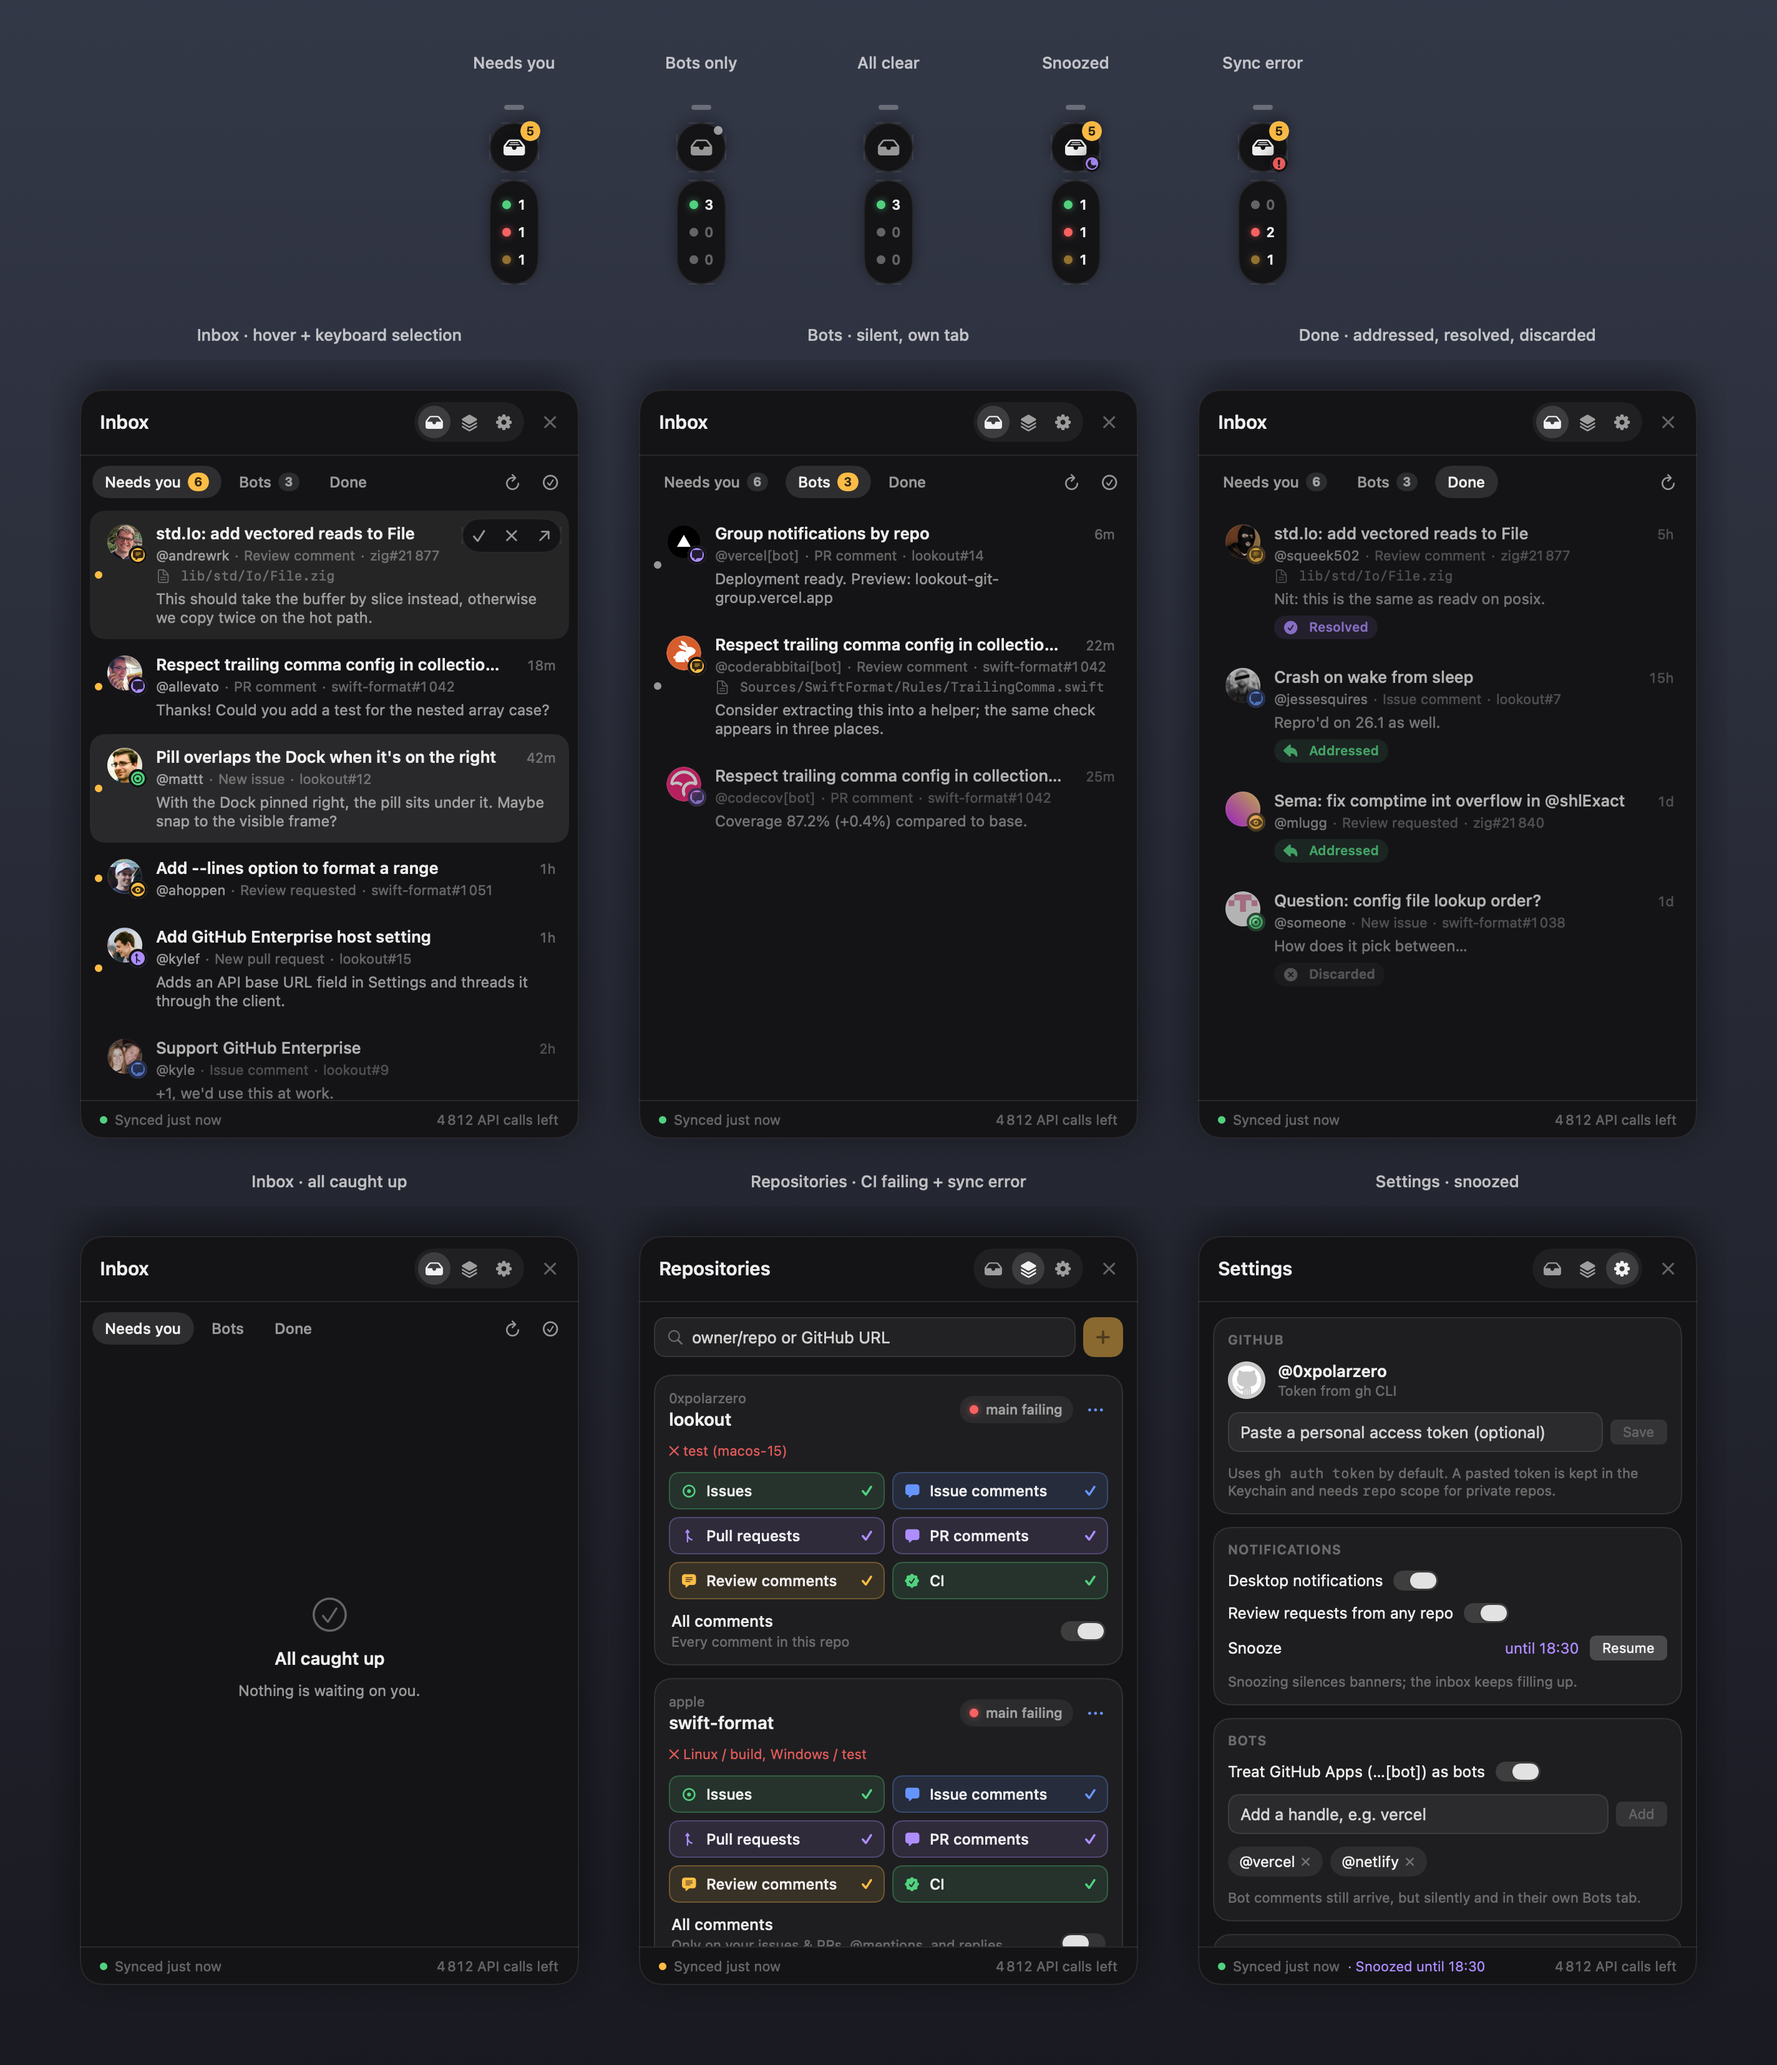
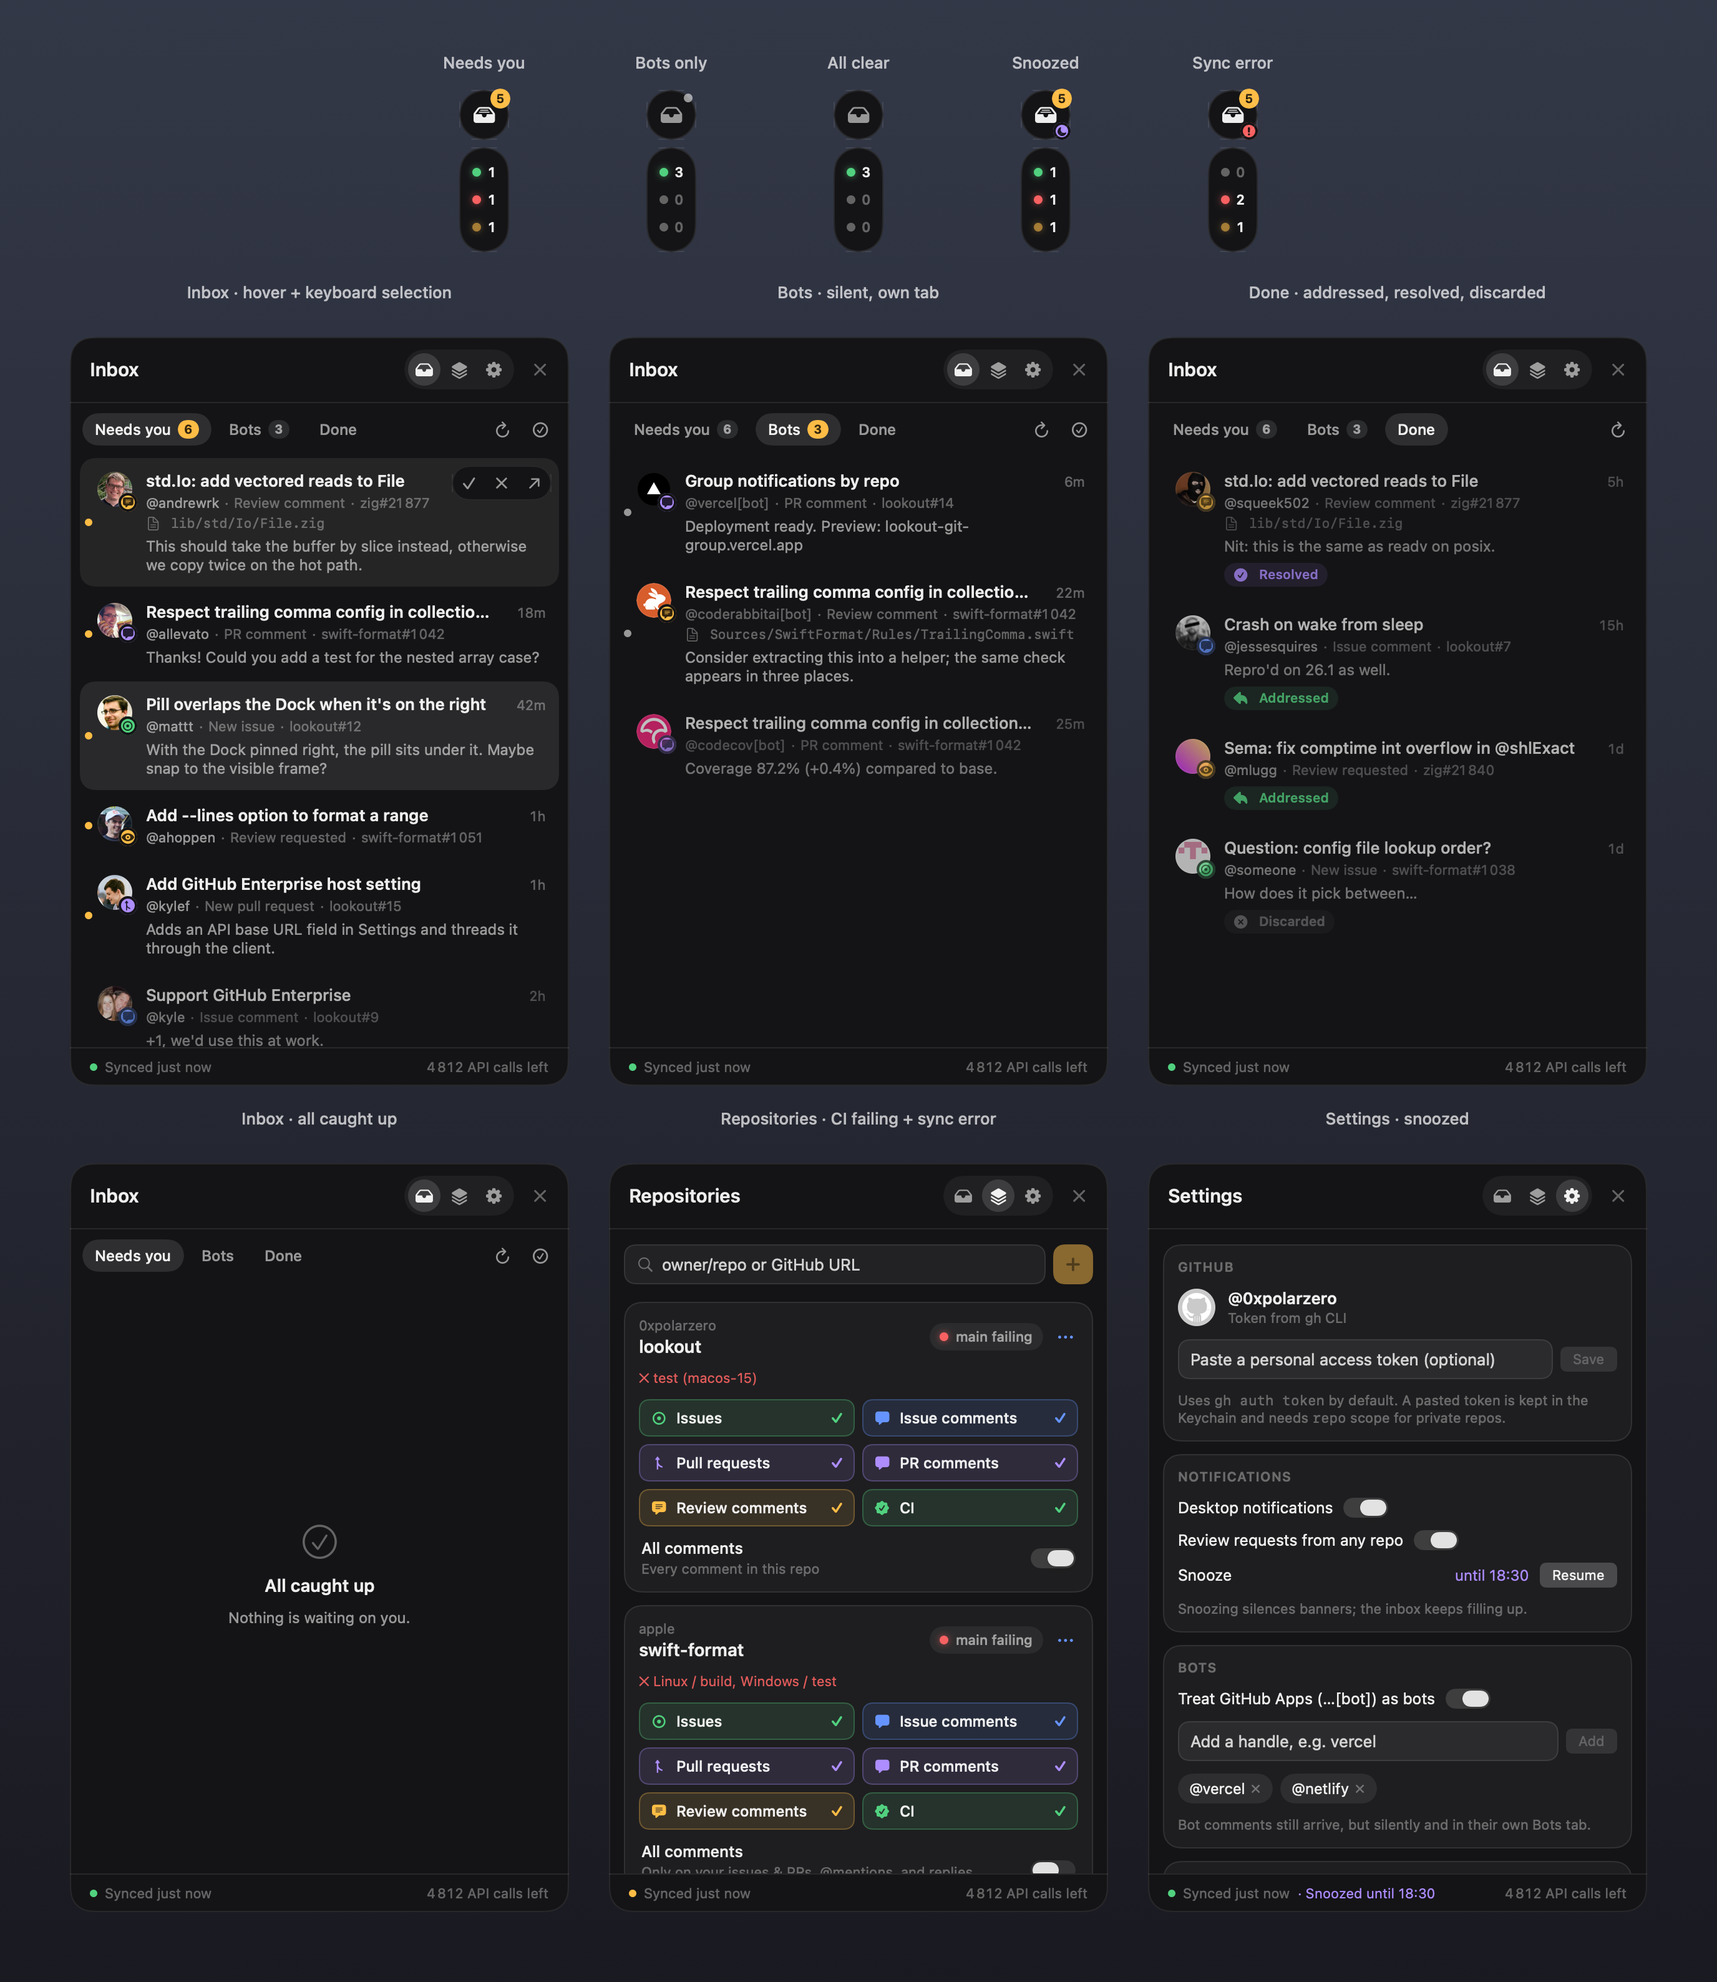
feat: Drag the pill from anywhere; drop clipped shadows (native shadow on the panel)

diff --git a/Sources/Lookout/Windows.swift b/Sources/Lookout/Windows.swift
@@ -17,7 +17,7 @@ final class UIState {
     }
 }
 
-final class FloatingPanel: NSPanel {
+class FloatingPanel: NSPanel {
     var allowsKey = false
     var onCancel: (() -> Void)?
 
@@ -60,15 +60,54 @@ final class SizingHostingView<Content: View>: NSHostingView<Content> {
 
 struct PillActions {
     let toggle: (PanelTab) -> Void
-    let dragChanged: () -> Void
-    let dragEnded: () -> Void
+}
+
+/// The whole pill is draggable. A mouse-down is held back until we know whether it's a click (forwarded to
+/// SwiftUI on mouse-up) or a drag (moves the window; SwiftUI never sees it, so no button fires).
+final class PillPanel: FloatingPanel {
+    var onDragChanged: ((NSPoint) -> Void)?
+    var onDragEnded: ((NSPoint) -> Void)?
+    private var pendingDown: NSEvent?
+    private var downAt: NSPoint = .zero
+    private var dragging = false
+
+    override func sendEvent(_ event: NSEvent) {
+        // Screen coordinates from the event itself (stable even though the window moves under the cursor).
+        let p = convertPoint(toScreen: event.locationInWindow)
+        switch event.type {
+        case .leftMouseDown:
+            pendingDown = event
+            downAt = p
+            dragging = false
+        case .leftMouseDragged where pendingDown != nil || dragging:
+            if !dragging, hypot(p.x - downAt.x, p.y - downAt.y) > 3 {
+                dragging = true
+                NSCursor.closedHand.push()
+                onDragChanged?(downAt)
+            }
+            if dragging { onDragChanged?(p) }
+        case .leftMouseUp where dragging:
+            dragging = false
+            pendingDown = nil
+            NSCursor.pop()
+            onDragEnded?(p)
+        case .leftMouseUp:
+            if let down = pendingDown {
+                pendingDown = nil
+                super.sendEvent(down)
+            }
+            super.sendEvent(event)
+        default:
+            super.sendEvent(event)
+        }
+    }
 }
 
 @MainActor
 final class UIController {
     let store: Store
     let ui = UIState()
-    static let panelPadding: CGFloat = 24
+    static let panelPadding: CGFloat = 0
     static let panelContent = NSSize(width: 400, height: 600)
 
     private var pill: FloatingPanel!
@@ -81,11 +120,12 @@ final class UIController {
     init(store: Store) {
         self.store = store
         let actions = PillActions(
-            toggle: { [weak self] tab in self?.toggle(tab) },
-            dragChanged: { [weak self] in self?.dragChanged() },
-            dragEnded: { [weak self] in self?.dragEnded() })
+            toggle: { [weak self] tab in self?.toggle(tab) })
 
-        pill = FloatingPanel(size: NSSize(width: 60, height: 200))
+        let pillPanel = PillPanel(size: NSSize(width: 60, height: 200))
+        pillPanel.onDragChanged = { [weak self] point in self?.dragChanged(to: point) }
+        pillPanel.onDragEnded = { [weak self] point in self?.dragEnded(at: point) }
+        pill = pillPanel
         pillHost = SizingHostingView(rootView: PillView(store: store, ui: ui, actions: actions))
         pillHost.onSizeChange = { [weak self] _ in self?.layoutPill() }
         pill.contentView = pillHost
@@ -95,6 +135,7 @@ final class UIController {
         let pad = Self.panelPadding * 2
         panel = FloatingPanel(size: NSSize(width: Self.panelContent.width + pad, height: Self.panelContent.height + pad))
         panel.allowsKey = true
+        panel.hasShadow = true
         panel.contentView = NSHostingView(rootView: PanelView(store: store, ui: ui, close: { [weak self] in self?.hidePanel() }))
         panel.onCancel = { [weak self] in self?.hidePanel() }
 
@@ -127,8 +168,7 @@ final class UIController {
         if ui.isOpen { positionPanel() }
     }
 
-    private func dragChanged() {
-        let mouse = NSEvent.mouseLocation
+    private func dragChanged(to mouse: NSPoint) {
         if dragStart == nil {
             dragStart = (mouse, pill.frame.origin)
             hidePanel()
@@ -137,9 +177,8 @@ final class UIController {
         pill.setFrameOrigin(NSPoint(x: start.origin.x + mouse.x - start.mouse.x, y: start.origin.y + mouse.y - start.mouse.y))
     }
 
-    private func dragEnded() {
+    private func dragEnded(at mouse: NSPoint) {
         dragStart = nil
-        let mouse = NSEvent.mouseLocation
         screen = NSScreen.screens.first { NSMouseInRect(mouse, $0.frame, false) } ?? screen
         let vf = screen.visibleFrame
         ui.onLeft = pill.frame.midX < vf.midX
@@ -179,6 +218,7 @@ final class UIController {
         if !ui.isOpen {
             panel.alphaValue = 0
             panel.makeKeyAndOrderFront(nil)
+            DispatchQueue.main.async { self.panel.invalidateShadow() }
             NSAnimationContext.runAnimationGroup { ctx in
                 ctx.duration = 0.16
                 panel.animator().alphaValue = 1

diff --git a/Tests/LookoutTests/PillDragTests.swift b/Tests/LookoutTests/PillDragTests.swift
@@ -1,0 +1,36 @@
+import AppKit
+import Testing
+@testable import Lookout
+
+@MainActor
+@Suite struct PillDrag {
+    private func event(_ type: NSEvent.EventType, _ x: CGFloat, _ y: CGFloat, in window: NSWindow) -> NSEvent {
+        NSEvent.mouseEvent(with: type, location: NSPoint(x: x, y: y), modifierFlags: [], timestamp: 0,
+                           windowNumber: window.windowNumber, context: nil, eventNumber: 0, clickCount: 1, pressure: 1)!
+    }
+
+    private func panel() -> (PillPanel, () -> [String]) {
+        let panel = PillPanel(size: NSSize(width: 44, height: 120))
+        panel.setFrameOrigin(NSPoint(x: 500, y: 500))
+        var log: [String] = []
+        panel.onDragChanged = { p in log.append("changed \(Int(p.x)),\(Int(p.y))") }
+        panel.onDragEnded = { p in log.append("ended \(Int(p.x)),\(Int(p.y))") }
+        return (panel, { log })
+    }
+
+    @Test func dragAnywhereMovesPill() {
+        let (panel, log) = panel()
+        panel.sendEvent(event(.leftMouseDown, 20, 60, in: panel))
+        panel.sendEvent(event(.leftMouseDragged, 20, 80, in: panel))
+        panel.sendEvent(event(.leftMouseUp, 20, 90, in: panel))
+        #expect(log() == ["changed 520,560", "changed 520,580", "ended 520,590"])
+    }
+
+    @Test func clickIsNotADrag() {
+        let (panel, log) = panel()
+        panel.sendEvent(event(.leftMouseDown, 20, 60, in: panel))
+        panel.sendEvent(event(.leftMouseDragged, 21, 61, in: panel))  // jitter under the threshold
+        panel.sendEvent(event(.leftMouseUp, 21, 61, in: panel))
+        #expect(log().isEmpty)
+    }
+}

diff --git a/Sources/Lookout/PillView.swift b/Sources/Lookout/PillView.swift
@@ -9,7 +9,6 @@ struct PillView: View {
 
     var body: some View {
         VStack(spacing: 6) {
-            grip
             group {
                 inboxButton
             }
@@ -26,7 +25,7 @@ struct PillView: View {
                 }
             }
         }
-        .padding(10)
+        .padding(2)
         .fixedSize()
         .environment(\.colorScheme, .dark)
         .onChange(of: store.pulse) {
@@ -35,22 +34,6 @@ struct PillView: View {
         }
     }
 
-    private var grip: some View {
-        Capsule()
-            .fill(Color.white.opacity(0.28))
-            .frame(width: 16, height: 4)
-            .frame(width: 40, height: 12)
-            .contentShape(Rectangle())
-            .onHover { inside in
-                if inside { NSCursor.openHand.push() } else { NSCursor.pop() }
-            }
-            .gesture(
-                DragGesture(minimumDistance: 1, coordinateSpace: .global)
-                    .onChanged { _ in actions.dragChanged() }
-                    .onEnded { _ in actions.dragEnded() }
-            )
-            .help("Drag to move · snaps to the nearest edge")
-    }
 
     private var inboxButton: some View {
         let unread = store.unreadCount(.needsYou)
@@ -127,6 +110,5 @@ struct PillView: View {
             .padding(4)
             .background(Capsule(style: .continuous).fill(Theme.bg))
             .overlay(Capsule(style: .continuous).strokeBorder(Theme.stroke))
-            .shadow(color: .black.opacity(0.35), radius: 6, y: 2)
     }
 }

diff --git a/Sources/Lookout/Demo.swift b/Sources/Lookout/Demo.swift
@@ -123,7 +123,7 @@ enum Snapshot {
             Demo.populate(s, scenario)
             return s
         }
-        let actions = PillActions(toggle: { _ in }, dragChanged: {}, dragEnded: {})
+        let actions = PillActions(toggle: { _ in })
         for (label, scenario) in [("Needs you", Demo.Scenario.busy), ("Bots only", .botsOnly), ("All clear", .allClear),
                                   ("Snoozed", .snoozed), ("Sync error", .error)] {
             host(label, pill: true, PillView(store: store(scenario), ui: UIState(), actions: actions))
@@ -133,6 +133,7 @@ enum Snapshot {
             ui.tab = tab
             ui.filter = filter
             host(label, pill: false, PanelView(store: store(scenario), ui: ui, close: {})
+                .padding(16)
                 .environment(\.previewHover, Demo.hoverID)
                 .environment(\.previewSelection, Demo.selectedID))
         }

diff --git a/Sources/Lookout/SettingsView.swift b/Sources/Lookout/SettingsView.swift
@@ -140,7 +140,7 @@ struct SettingsView: View {
                     .background(RoundedRectangle(cornerRadius: 6).fill(Color.white.opacity(0.07)))
             }
             HStack {
-                hint("Drag the handle on top of the pill to move it to either edge.")
+                hint("Drag the pill to move it to either edge.")
                 Spacer()
                 Button("Quit Lookout") { NSApp.terminate(nil) }.controlSize(.small)
             }

diff --git a/Sources/Lookout/PanelView.swift b/Sources/Lookout/PanelView.swift
@@ -25,8 +25,6 @@ struct PanelView: View {
         .background(Theme.bg)
         .clipShape(RoundedRectangle(cornerRadius: 18, style: .continuous))
         .overlay(RoundedRectangle(cornerRadius: 18, style: .continuous).strokeBorder(Theme.stroke))
-        .shadow(color: .black.opacity(0.55), radius: 18, y: 8)
-        .padding(UIController.panelPadding)
         .environment(\.colorScheme, .dark)
         .tint(Theme.accent)
     }

diff --git a/README.md b/README.md
@@ -18,7 +18,7 @@ Requires macOS 14+. Auth comes from `gh auth token` (or a token pasted in Settin
 
 ## Using it
 
-- **Pill**: inbox (amber badge = unread items that need you, grey dot = only bots; a purple moon means snoozed, a red mark means a sync error), and CI counts: how many repos are passing (green), failing (red) and running (amber) on main; hover a row to see which. Settings are in the panel. Drag the top handle to move it; it snaps to the nearest edge. `⌃⌥Space` toggles the panel.
+- **Pill**: inbox (amber badge = unread items that need you, grey dot = only bots; a purple moon means snoozed, a red mark means a sync error), and CI counts: how many repos are passing (green), failing (red) and running (amber) on main; hover a row to see which. Settings are in the panel. Drag it from anywhere to move it; it snaps to the nearest edge. `⌃⌥Space` toggles the panel.
 - **Repositories**: add `owner/repo` (suggestions come from repos you own or are involved in) and toggle: issues, issue comments, PRs, PR comments, review comments, CI on the default branch.
 - **Which comments count**: by default only comments that are for you: on issues/PRs you opened, ones that @mention you, or ones posted after you joined the conversation (for review comments: in a review thread you posted in). Turn on **All comments** per repo to get every comment.
 - **Inbox**: *Needs you* / *Bots* / *Done*. Hover a row to mark it read, discard it, or open it. Keys: ↑↓ to move, Return to open, Space to toggle read, ⌫ to discard or restore, Esc to close.
